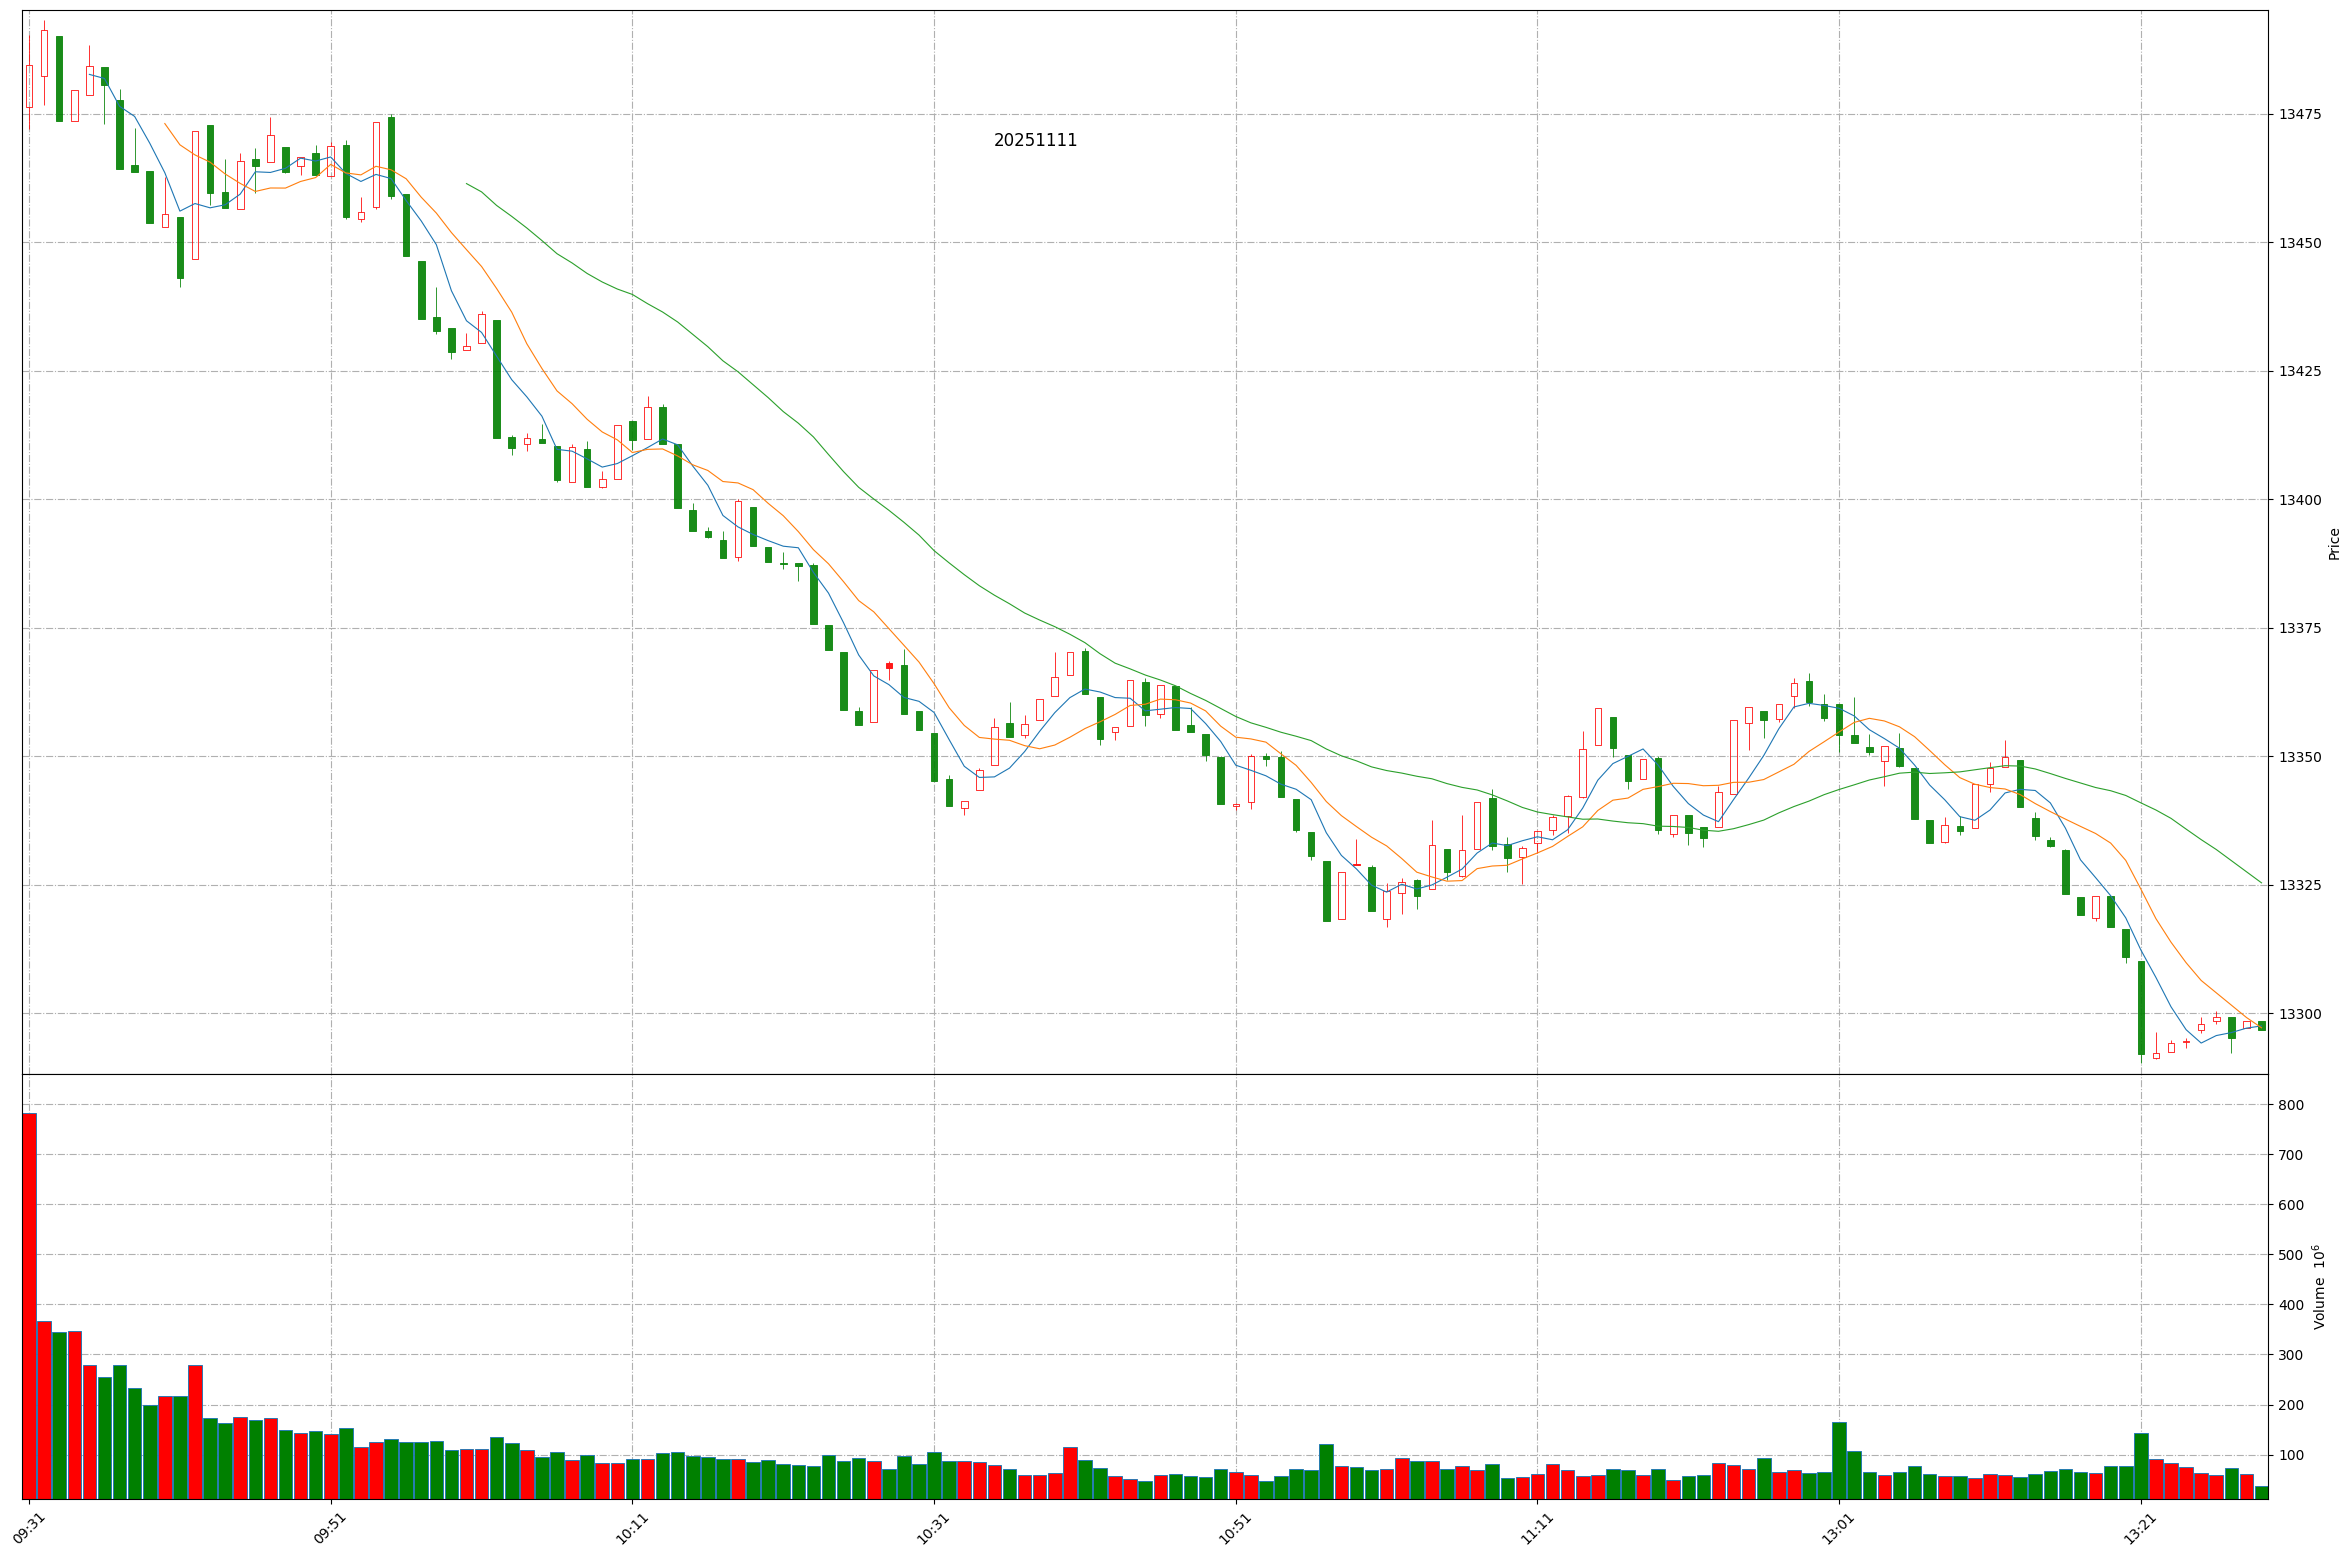
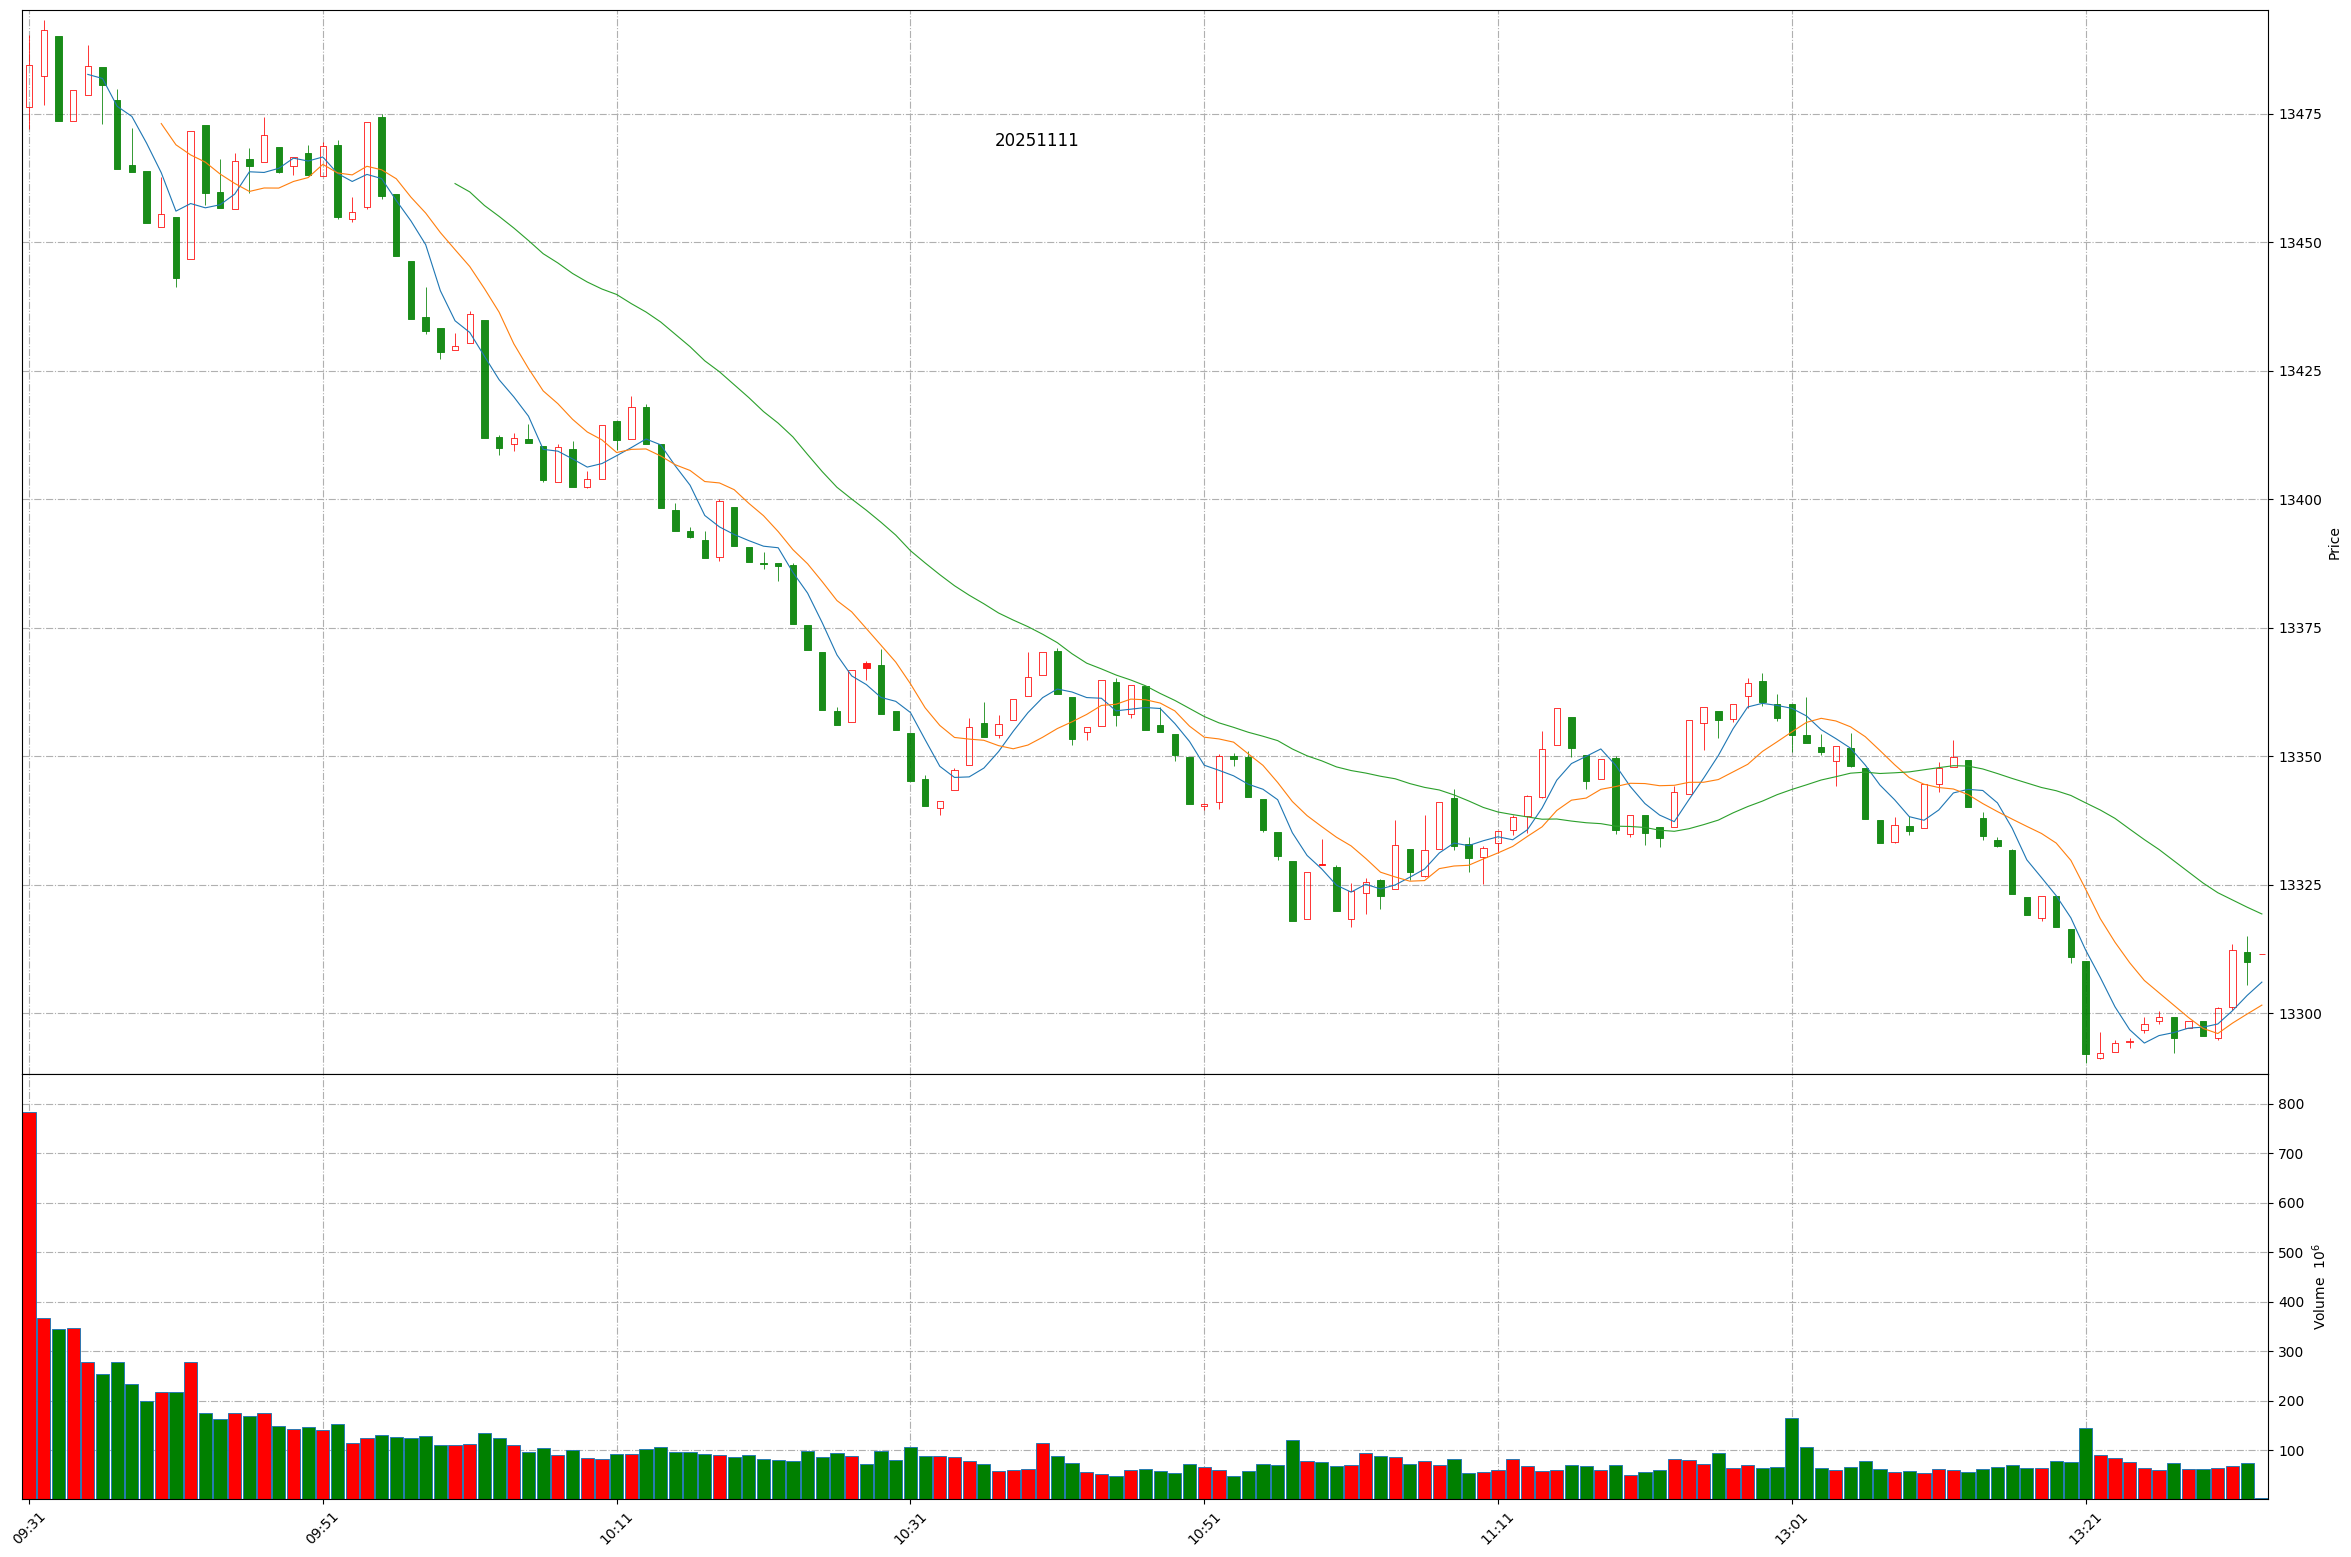
Github action update at 2025-11-11 13:32:16.

Changed region(s): [[0.0621, 0.0617, 0.9626, 0.6782], [0.0311, 0.8632, 0.9626, 0.9865], [0.0311, 0.0308, 0.0621, 0.0925]]

diff --git a/README.md b/README.md
@@ -1,11 +1,11 @@
 
 # Daily-A-share-market-quotes 每日 A 股指数（5min 更新）- 20251111
 
-### 上证指数 20251111 13:28
+### 上证指数 20251111 13:32
 ![](./fig/2025/11/20251111-sh000001.png)
 
-### 深证成指 20251111 13:28
+### 深证成指 20251111 13:32
 ![](./fig/2025/11/20251111-sz399001.png)
 
-### 北证50 20251111 13:28
+### 北证50 20251111 13:32
 ![](./fig/2025/11/20251111-bj899050.png)
